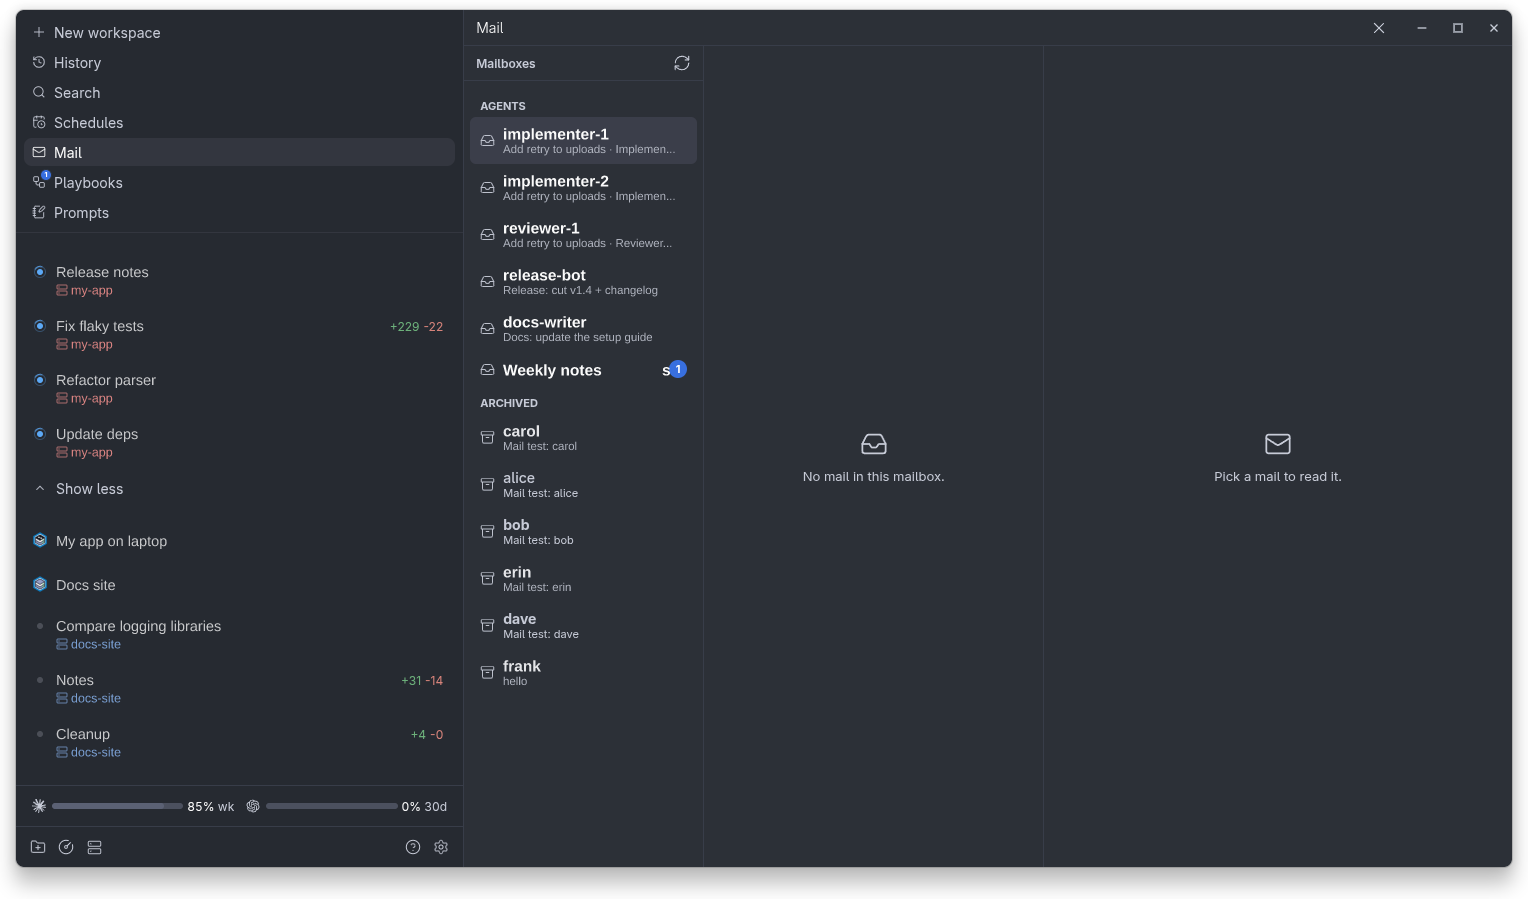
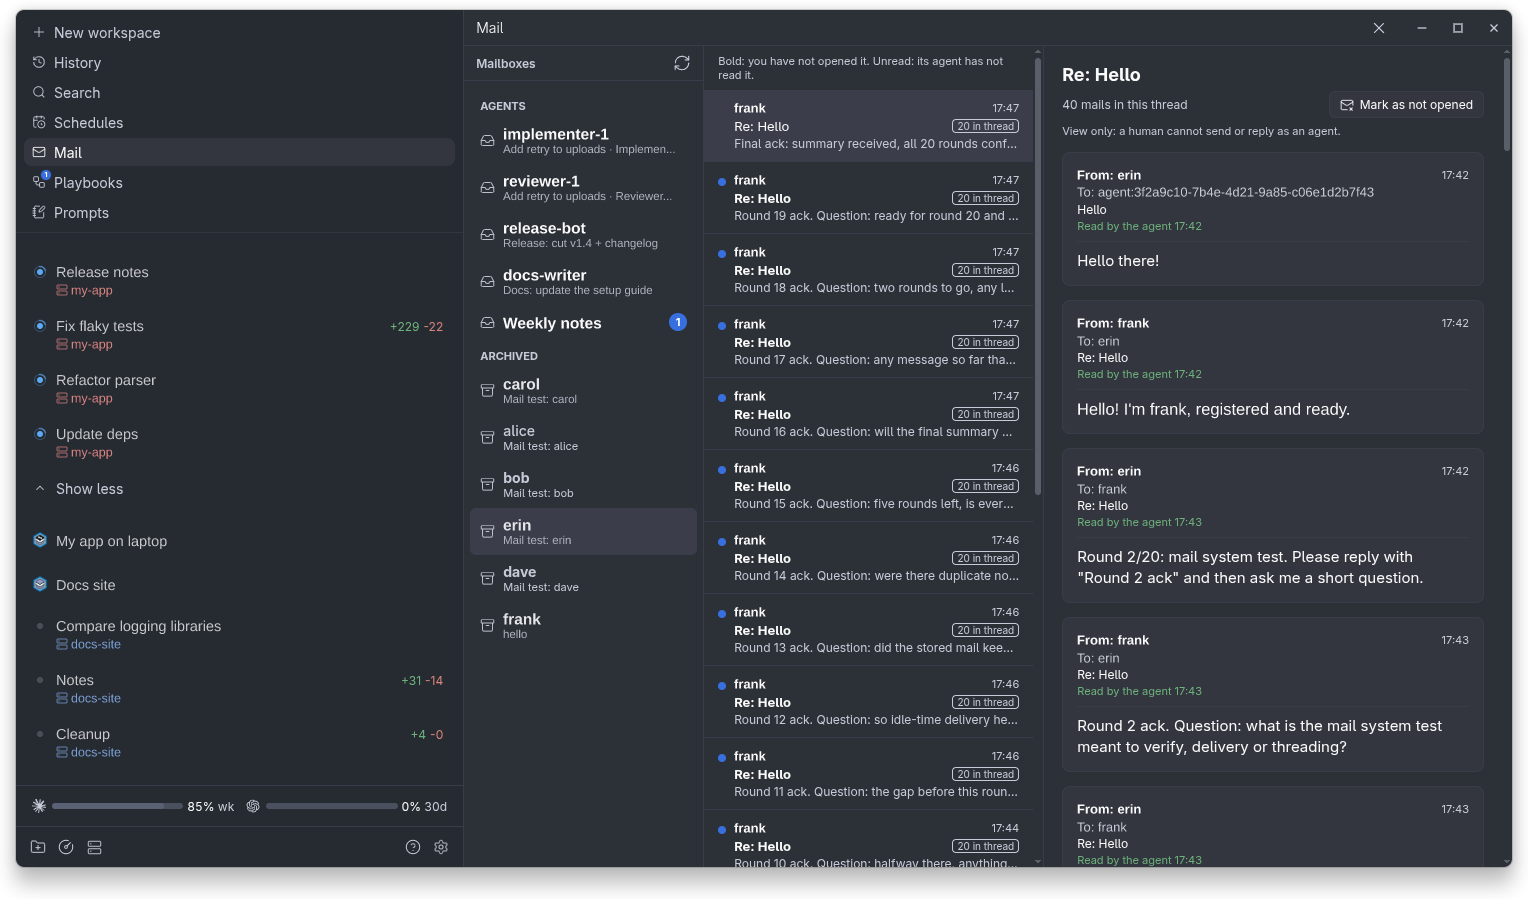
Use a fuller, anonymized Mail screen screenshot

diff --git a/website/index.html b/website/index.html
@@ -33,7 +33,7 @@
 <p>When the recipient is idle, the plugin sends it a one-line nudge with its unread count. It is never woken again for mail it has read or was already told about.</p>
 <h2>The Mail screen</h2>
 <p>A <strong>Mail</strong> screen, opened from Paseo's sidebar, shows every agent's mailbox like a mail client: who mailed whom, what each agent has not read yet, and whole threads. It is view only, so a human never acts as an agent.</p>
-<figure class="shot"><img src="mail-screen.png" alt="The Mail screen in Paseo: a list of agent mailboxes with unread counts, beside empty mailbox and mail panes" width="1528" height="900"><figcaption>The Mail screen in Paseo, opened from the sidebar.</figcaption></figure>
+<figure class="shot"><img src="mail-screen.png" alt="The Mail screen in Paseo: agent mailboxes on the left, the mails of one mailbox in the middle, and the selected mail with its whole thread on the right" width="1528" height="900"><figcaption>The Mail screen in Paseo, opened from the sidebar.</figcaption></figure>
 <h2>Learn more</h2>
 <div class="cards">
 <a class="card" href="getting-started.html"><strong>Getting started</strong><span>Install the plugin and send a first message between two agents.</span></a>

diff --git a/README.md b/README.md
@@ -69,7 +69,7 @@ start. See `docs/adrs/2026-11-10-no-turn-start-injection.md`.
 A **Mail** row in Paseo's sidebar opens a screen that reads like a mail client, so a human
 can follow the agents' mail:
 
-![The Mail screen in Paseo, listing agent mailboxes](assets/mail-screen.png)
+![The Mail screen in Paseo: mailboxes, the mails of one mailbox, and a thread in the reader](assets/mail-screen.png)
 
 - **Mailboxes**: every agent with a registration or mail, by name, with its roles and the
   count of mail it has not read. Archived agents are listed last, with their returned mail.
